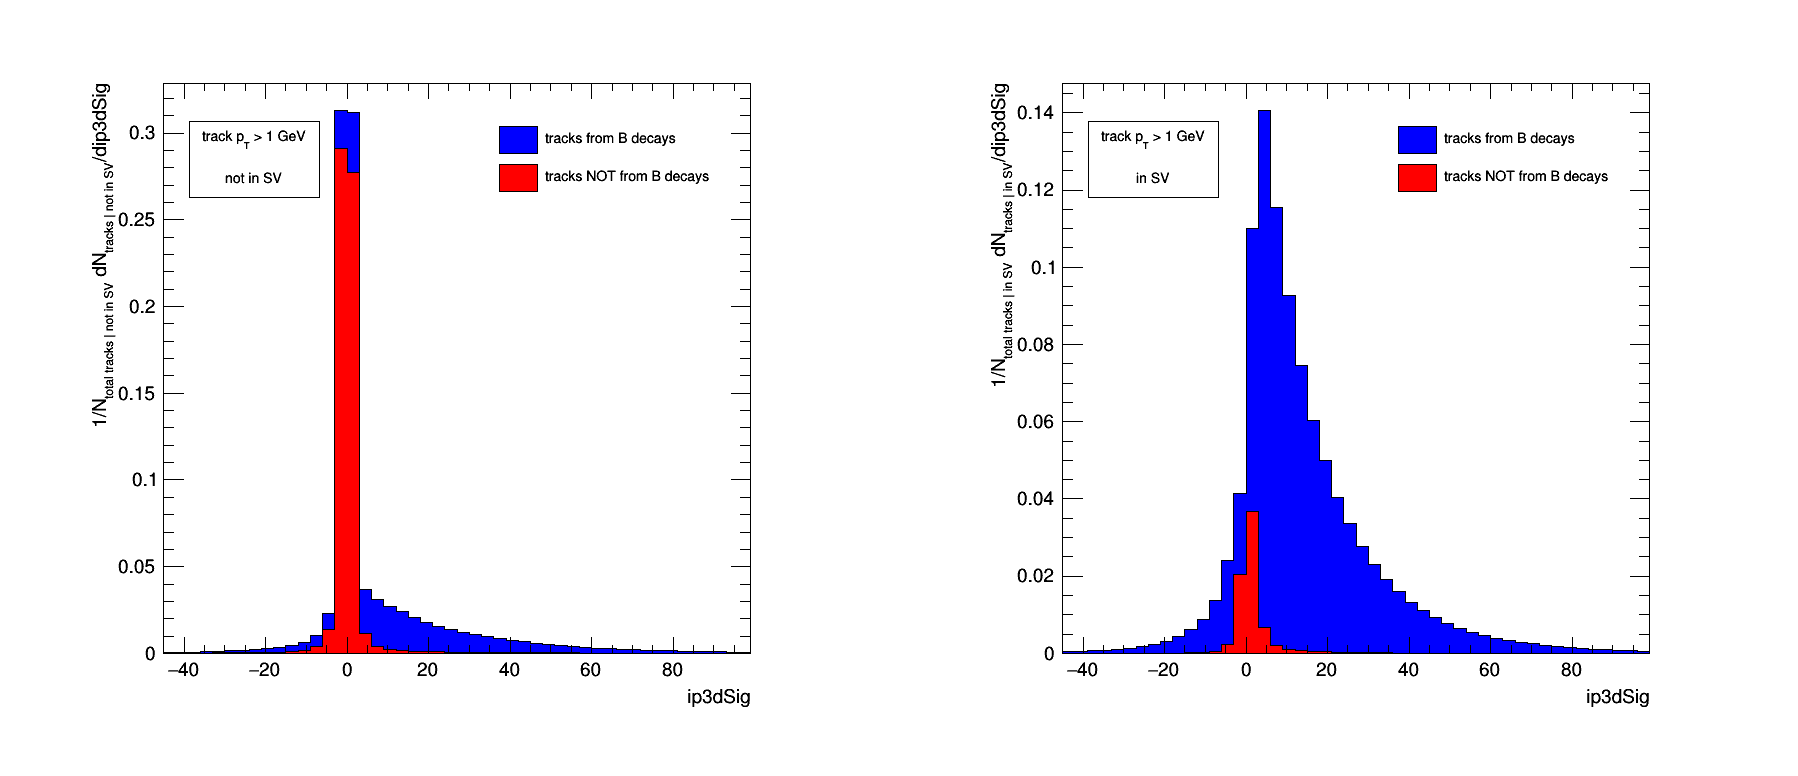
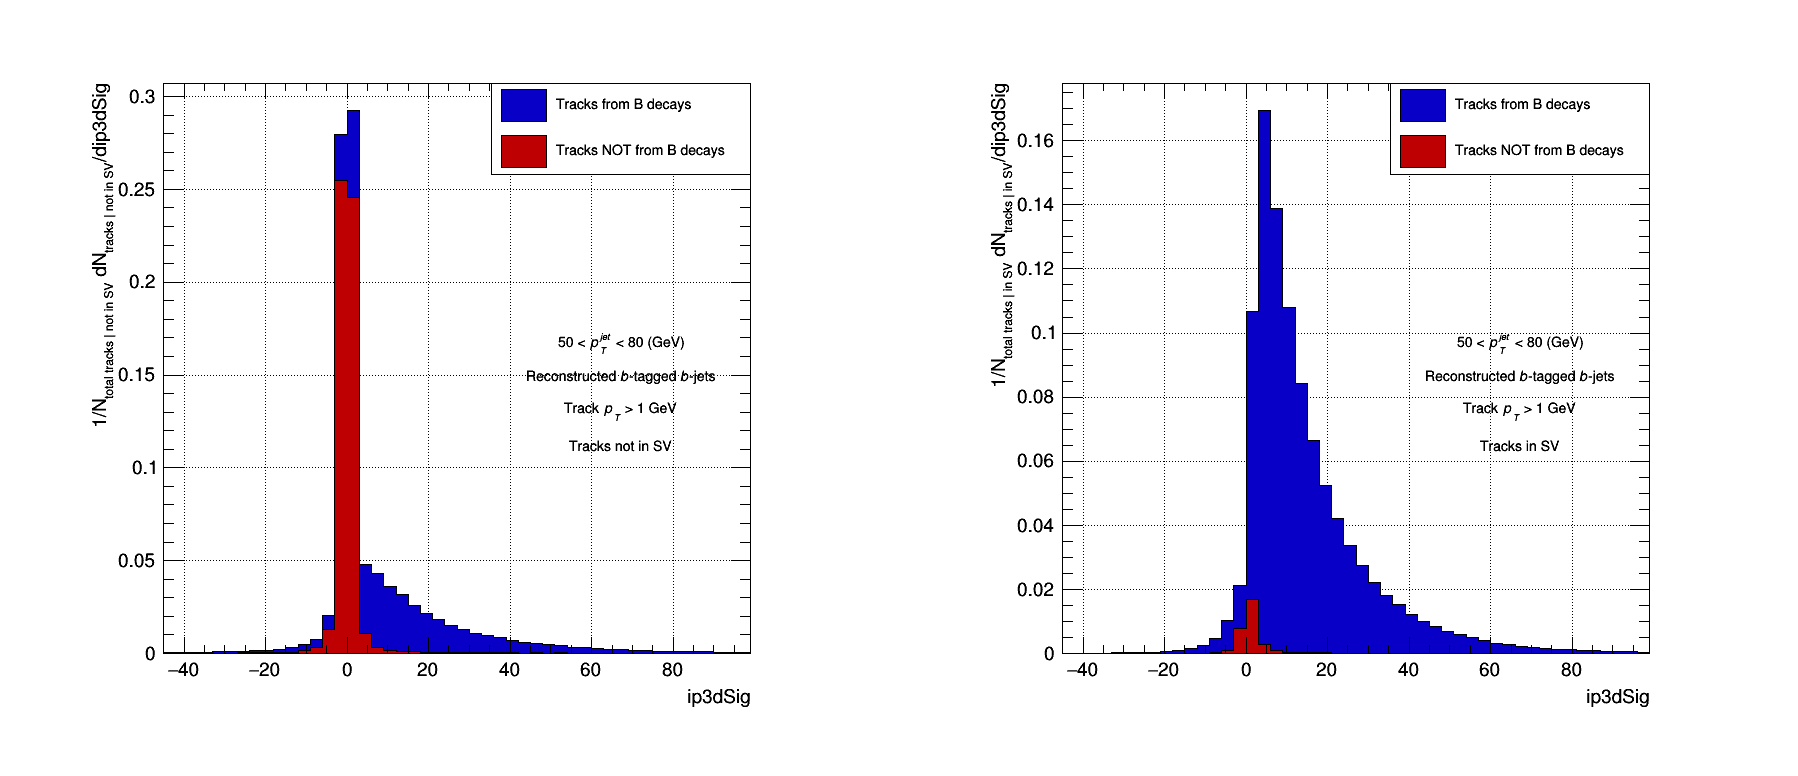
fix ip3dsig inSV/notinSV plots and add Track pt info

diff --git a/myMacros/svvar_discr_power/draw_discr_selection.C b/myMacros/svvar_discr_power/draw_discr_selection.C
@@ -8,8 +8,7 @@
 #include "THStack.h"
 
 #include "../utils.h" // normalise_histo, set_axes_labels
-
-#include <algorithm> // std::max
+#include "../pt2dscan/myPalette.h"
 
 void draw_discr_selection() 
 {
@@ -17,8 +16,19 @@ void draw_discr_selection()
 	std::string fname = "bDiscriminants_histos.root";
 
     TFile *fin = new TFile((indir + fname).c_str());
-    TH2D *hsig_2d = (TH2D *) fin->Get("hsig_2d");
-    TH2D *hbkg_2d = (TH2D *) fin->Get("hbkg_2d");
+    TH3D *hsig_3d = (TH3D *) fin->Get("hsig_3d");
+    TH3D *hbkg_3d = (TH3D *) fin->Get("hbkg_3d");
+
+    // Get pt range projections in 1d
+    Float_t ptmin = 50.;
+    Float_t ptmax = 80.;
+
+    hsig_3d->GetZaxis()->SetRangeUser(ptmin, ptmax);
+    hbkg_3d->GetZaxis()->SetRangeUser(ptmin, ptmax);
+
+    TH2D *hsig_2d = (TH2D *) hsig_3d->Project3D("yx");
+    TH2D *hbkg_2d = (TH2D *) hbkg_3d->Project3D("yx");
+
     // X = ip3dSig, Y = not in SV (bin 1) / in SV (bin 2)
 
     // Get histograms of ip3dSig for sig/bkg when not in SV / in SV
@@ -70,13 +80,13 @@ void draw_discr_selection()
     THStack *hs_inSV = new THStack("hs_inSV", "");
 
     hbkg_ip3dSig_inSV_stack->Scale(1 / inSV_norm);
-    hbkg_ip3dSig_inSV_stack->SetFillColor(2);
+    hbkg_ip3dSig_inSV_stack->SetFillColor(mykRed);
     hbkg_ip3dSig_inSV_stack->SetFillStyle(1001);
 	set_axes_labels(hbkg_ip3dSig_inSV_stack, x1title, y1title);
     hs_inSV->Add(hbkg_ip3dSig_inSV_stack);
 
     hsig_ip3dSig_inSV_stack->Scale(1 / inSV_norm);
-    hsig_ip3dSig_inSV_stack->SetFillColor(4);
+    hsig_ip3dSig_inSV_stack->SetFillColor(mykBlue);
     hsig_ip3dSig_inSV_stack->SetFillStyle(1001);
 	set_axes_labels(hsig_ip3dSig_inSV_stack, x1title, y1title);
     hs_inSV->Add(hsig_ip3dSig_inSV_stack);
@@ -86,13 +96,13 @@ void draw_discr_selection()
     THStack *hs_notInSV = new THStack("hs_notInSV", "");
 
 	hbkg_ip3dSig_notInSV_stack->Scale(1 / notInSV_norm);
-    hbkg_ip3dSig_notInSV_stack->SetFillColor(2);
+    hbkg_ip3dSig_notInSV_stack->SetFillColor(mykRed);
     hbkg_ip3dSig_notInSV_stack->SetFillStyle(1001);
 	set_axes_labels(hbkg_ip3dSig_notInSV_stack, x1title, y1title);
     hs_notInSV->Add(hbkg_ip3dSig_notInSV_stack);
 
     hsig_ip3dSig_notInSV_stack->Scale(1 / notInSV_norm);
-    hsig_ip3dSig_notInSV_stack->SetFillColor(4);
+    hsig_ip3dSig_notInSV_stack->SetFillColor(mykBlue);
     hsig_ip3dSig_notInSV_stack->SetFillStyle(1001);
 	set_axes_labels(hsig_ip3dSig_notInSV_stack, x1title, y1title);
     hs_notInSV->Add(hsig_ip3dSig_notInSV_stack);
@@ -129,31 +139,34 @@ void draw_discr_selection()
     hbkg_ip3dSig_inSV->SetLineColor(2);
    
     // Create info box and legend 
-    TPaveText *info_notInSV = new TPaveText(0.2, 0.75, 0.35, 0.85, "ndc");
-	info_notInSV->SetFillColor(0);
-	info_notInSV->SetBorderSize(1);
-	info_notInSV->SetTextSize(15);
-    info_notInSV->AddText("track p_{T} > 1 GeV");
+    TPaveText *info_notInSV = new TPaveText(0.55, 0.4, 0.85, 0.58, "ndc");
+    info_notInSV->SetBorderSize(0);
+    info_notInSV->SetFillColor(0);
+    info_notInSV->SetFillStyle(0);
+    info_notInSV->SetTextSize(15);
+    info_notInSV->AddText(Form("%.0f < #it{p_{T}^{jet}} < %0.f (GeV)", ptmin, ptmax));
+    info_notInSV->AddText("Reconstructed #it{b}-tagged #it{b}-jets");
+    info_notInSV->AddText("Track #it{p_{T}} > 1 GeV");
 
     TPaveText *info_inSV = (TPaveText *) info_notInSV->Clone();
-    info_inSV->AddText("in SV");
+    info_inSV->AddText("Tracks in SV");
 
-    info_notInSV->AddText("not in SV");
+    info_notInSV->AddText("Tracks not in SV");
 
-    TLegend *leg_notInSV = new TLegend(0.55, 0.75, 0.8, 0.85);
-    leg_notInSV->SetBorderSize(0);
-    leg_notInSV->SetFillStyle(0);
+    TLegend *leg_notInSV = new TLegend(0.55, 0.78, 0.85, 0.9);
+    leg_notInSV->SetBorderSize(1);
+    leg_notInSV->SetFillStyle(1000);
 	gStyle->SetLegendTextSize(15);
 
     TLegend *leg_inSV = (TLegend *) leg_notInSV->Clone();
     TLegend *leg_inSV_stack = (TLegend *) leg_notInSV->Clone();
     TLegend *leg_notInSV_stack = (TLegend *) leg_notInSV->Clone();
 
-    leg_notInSV->AddEntry(hsig_ip3dSig_notInSV, "tracks from B decays", "l");
-    leg_notInSV->AddEntry(hbkg_ip3dSig_notInSV, "tracks NOT from B decays", "l");
+    leg_notInSV->AddEntry(hsig_ip3dSig_notInSV, "Tracks from B decays", "l");
+    leg_notInSV->AddEntry(hbkg_ip3dSig_notInSV, "Tracks NOT from B decays", "l");
 
-    leg_inSV->AddEntry(hsig_ip3dSig_inSV, "tracks from B decays", "l");
-    leg_inSV->AddEntry(hbkg_ip3dSig_inSV, "tracks NOT from B decays", "l");
+    leg_inSV->AddEntry(hsig_ip3dSig_inSV, "Tracks from B decays", "l");
+    leg_inSV->AddEntry(hbkg_ip3dSig_inSV, "Tracks NOT from B decays", "l");
 
     TCanvas *c_ip3dSig = new TCanvas("c_ip3dSig", "", 1800, 800);
     c_ip3dSig->Divide(2, 1);
@@ -173,21 +186,23 @@ void draw_discr_selection()
     c_ip3dSig->Draw();
 
     // Same for stack histograms
-    leg_inSV_stack->AddEntry(hsig_ip3dSig_inSV_stack, "tracks from B decays", "f");
-    leg_inSV_stack->AddEntry(hbkg_ip3dSig_inSV_stack, "tracks NOT from B decays", "f");
+    leg_inSV_stack->AddEntry(hsig_ip3dSig_inSV_stack, "Tracks from B decays", "f");
+    leg_inSV_stack->AddEntry(hbkg_ip3dSig_inSV_stack, "Tracks NOT from B decays", "f");
 
-    leg_notInSV_stack->AddEntry(hsig_ip3dSig_notInSV_stack, "tracks from B decays", "f");
-    leg_notInSV_stack->AddEntry(hbkg_ip3dSig_notInSV_stack, "tracks NOT from B decays", "f");
+    leg_notInSV_stack->AddEntry(hsig_ip3dSig_notInSV_stack, "Tracks from B decays", "f");
+    leg_notInSV_stack->AddEntry(hbkg_ip3dSig_notInSV_stack, "Tracks NOT from B decays", "f");
     
     TCanvas *c_ip3dSig_stack = new TCanvas("c_ip3dSig_stack", "", 1800, 800);
     c_ip3dSig_stack->Divide(2, 1);
 
     c_ip3dSig_stack->cd(1);
+    c_ip3dSig_stack->cd(1)->SetGrid(1);
     hs_notInSV->Draw("hist");
     info_notInSV->Draw();
     leg_notInSV_stack->Draw();
 
     c_ip3dSig_stack->cd(2);
+    c_ip3dSig_stack->cd(2)->SetGrid(1);
     hs_inSV->Draw("hist");
     info_inSV->Draw();
     leg_inSV_stack->Draw();

diff --git a/myMacros/svvar_discr_power/draw_discriminants.C b/myMacros/svvar_discr_power/draw_discriminants.C
@@ -95,6 +95,7 @@ void draw_discriminants()
     info->SetTextSize(15);
     info->AddText(Form("%.0f < #it{p_{T}^{jet}} < %0.f (GeV)", ptmin, ptmax));
     info->AddText("Reconstructed #it{b}-tagged #it{b}-jets");
+    info->AddText("Track #it{p_{T}} > 1 GeV");
 
     TPaveText *infosv = new TPaveText(0.25, 0.65, 0.45, 0.75, "ndc");
     infosv->SetBorderSize(0);
@@ -103,6 +104,7 @@ void draw_discriminants()
     infosv->SetTextSize(15);
     infosv->AddText(Form("%.0f < #it{p_{T}^{jet}} < %0.f (GeV)", ptmin, ptmax));
     infosv->AddText("Reconstructed #it{b}-tagged #it{b}-jets");
+    infosv->AddText("Track #it{p_{T}} > 1 GeV");
 
     TCanvas *c_ip3dSig = new TCanvas("c_ip3dSig", "", 1000, 800);
     c_ip3dSig->SetGrid(1);
